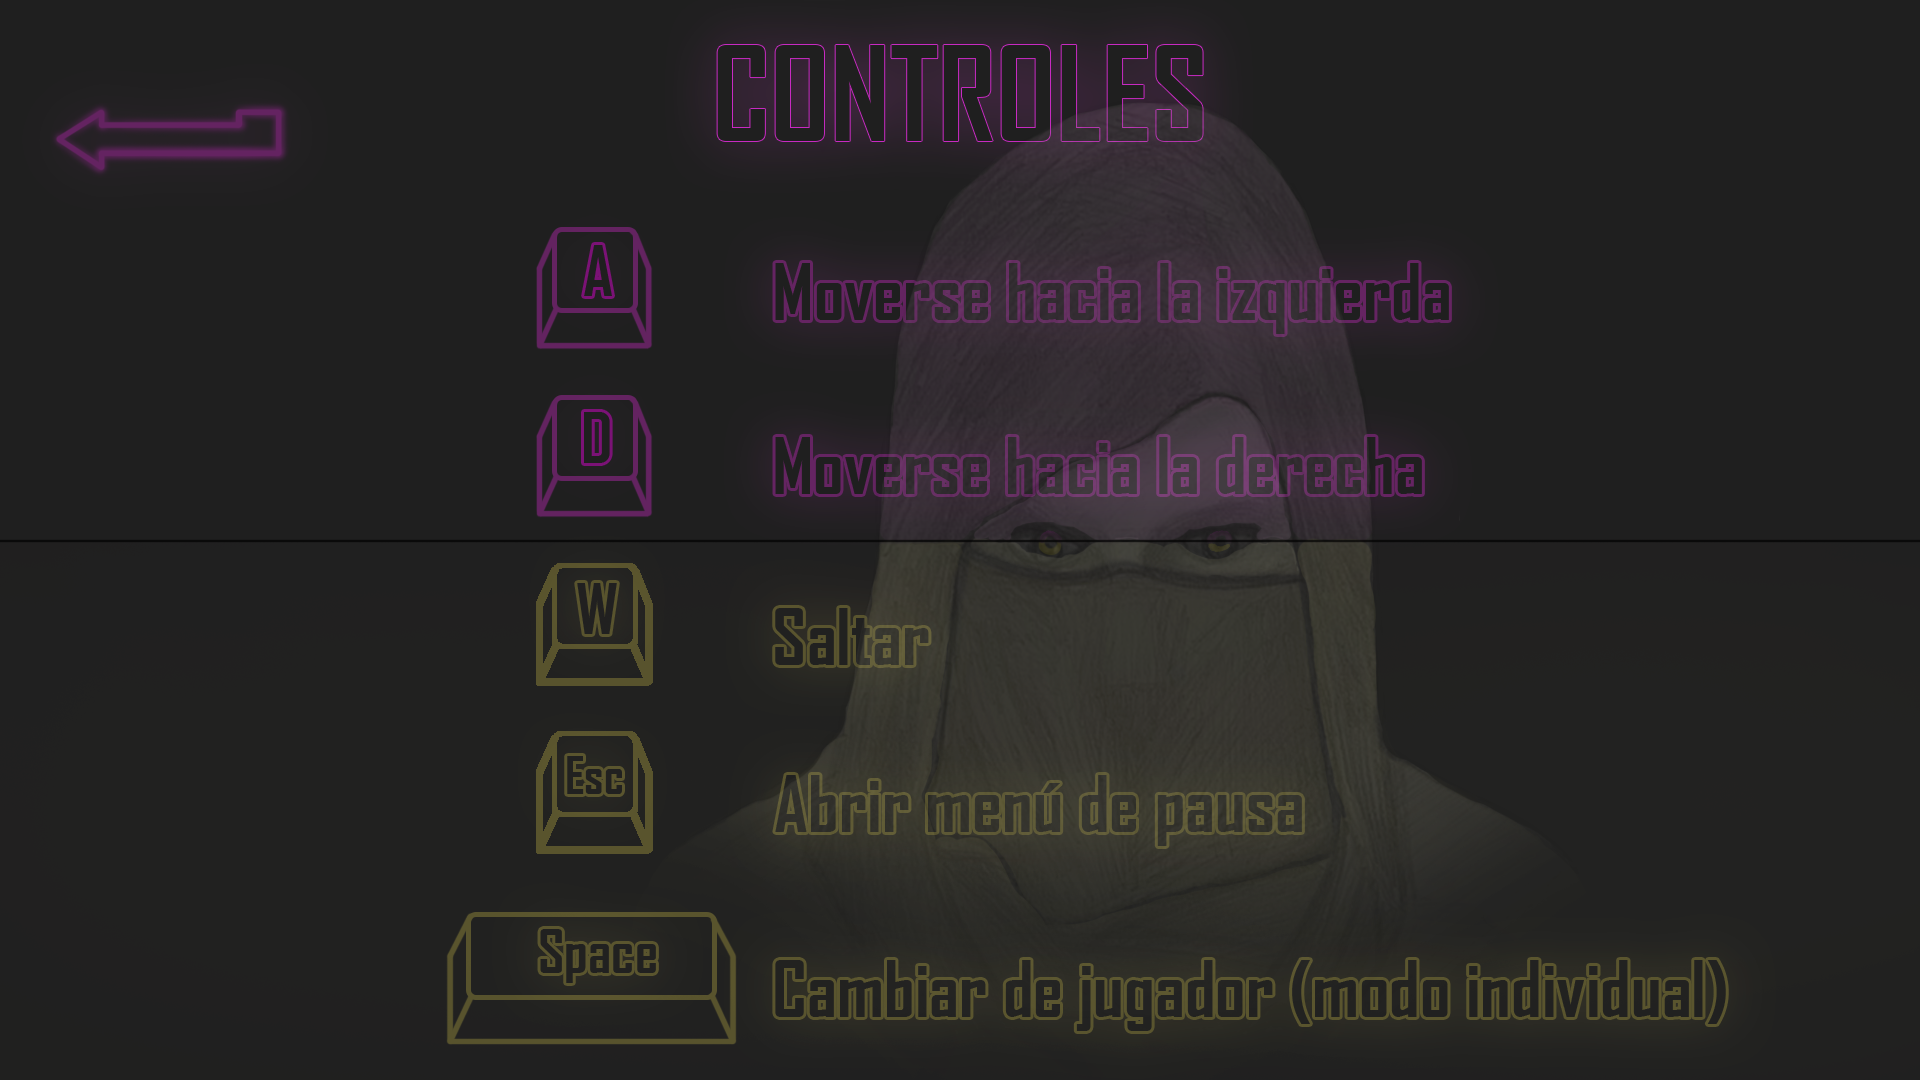
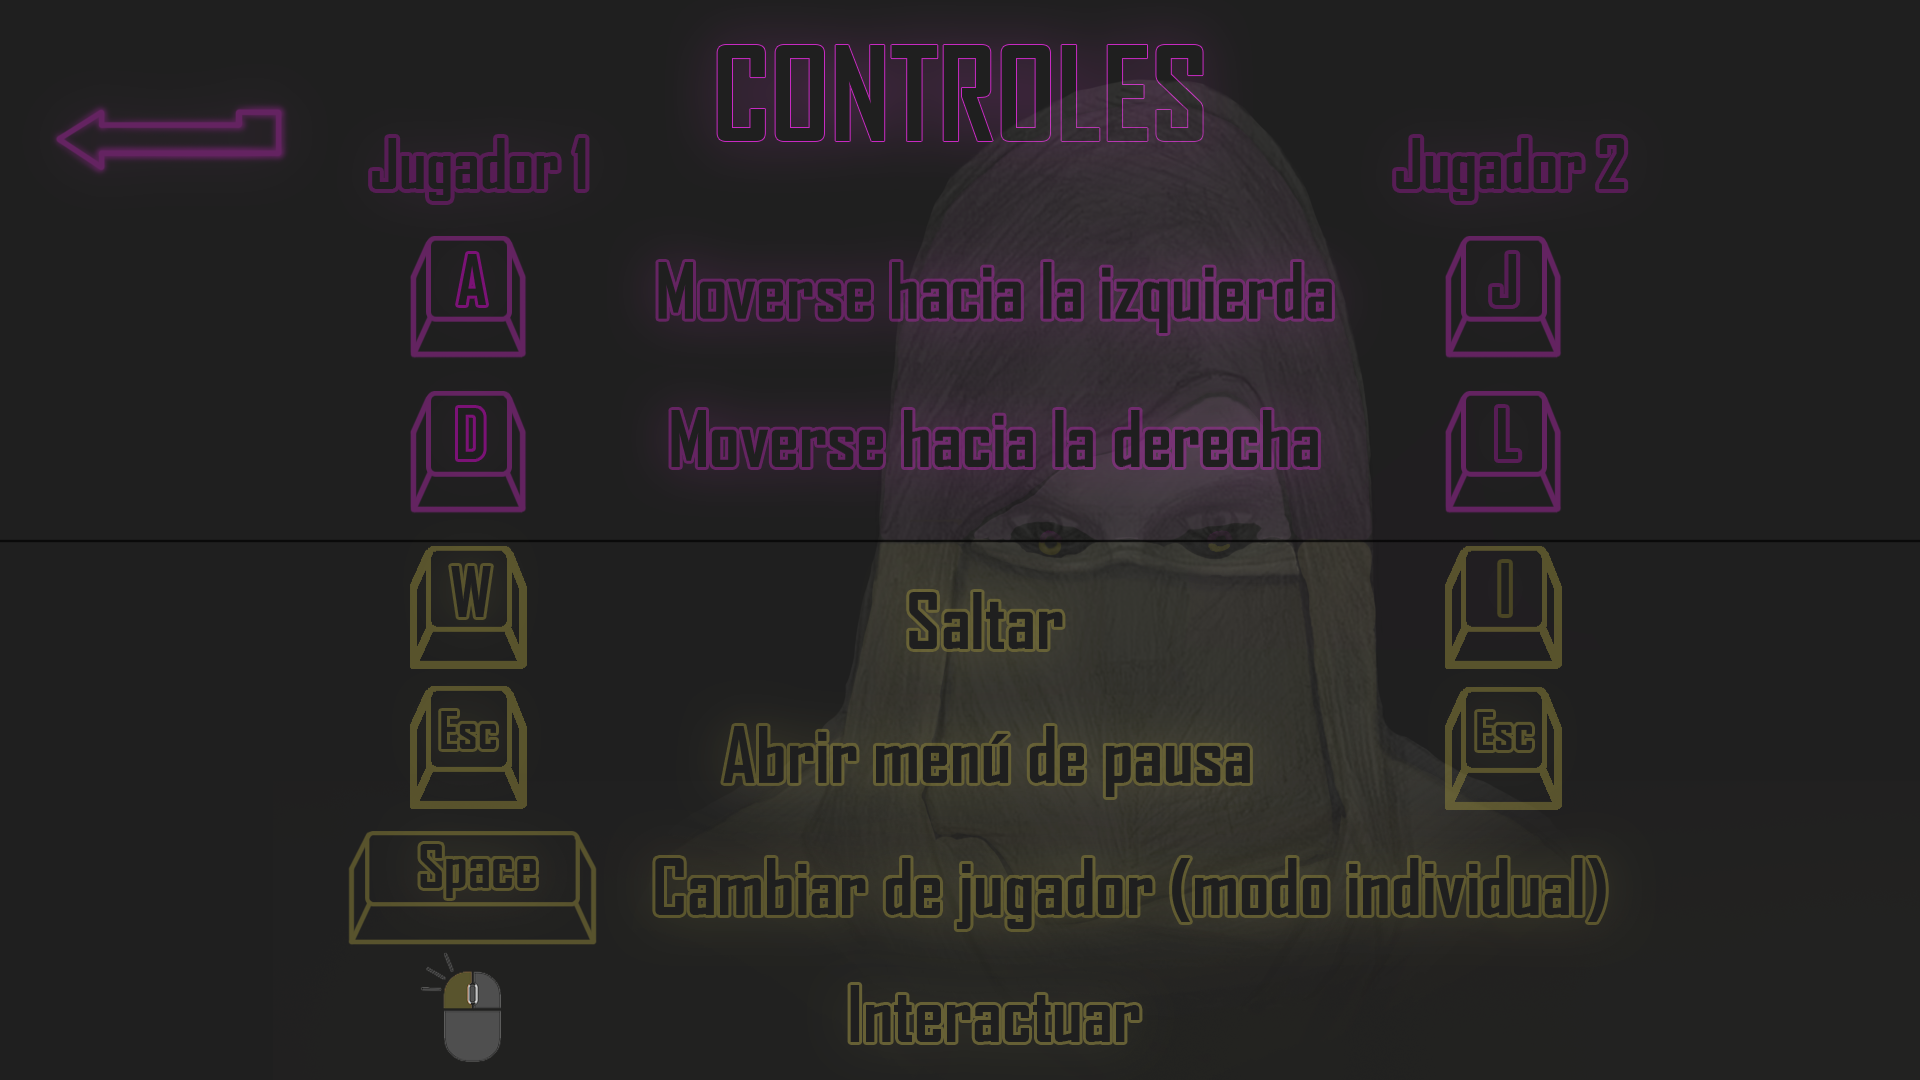
Cambios varios
- Pantalla de controles detecta dispositivo
- Cambio en la precarga de assets

diff --git a/src/scenes/bootScene.js b/src/scenes/bootScene.js
@@ -191,6 +191,35 @@ class bootScene extends Phaser.Scene{
             frameHeight: 68
         });
 
+        this.load.image('menu', 'assets/screens/Menú.png');
+        this.load.image('menuEnglish', 'assets/screens/MenúIngles.png');
+        this.load.image('screen', 'assets/UI/FullScreen.png');
+        this.load.image('settings', 'assets/UI/Settings.png');
+        this.load.image('howToPlay', 'assets/screens/Controles.png');
+        this.load.image('howToPlayEnglish', 'assets/screens/ControlesIngles.png');
+        this.load.image('howToPlayMB', 'assets/screens/ControlesMovil.png');
+        this.load.image('howToPlayMBEnglish', 'assets/screens/ControlesMovilIngles.png');
+        this.load.image('credit', 'assets/screens/Contacto.png');
+        this.load.image('creditEnglish', 'assets/screens/ContactoIngles.png');
+        this.load.image('gameOver', 'assets/screens/GameOver.png');
+        this.load.image('gameOverEnglish', 'assets/screens/GameOverIngles.png');
+        this.load.image('pause', 'assets/screens/Pausa.png');
+        this.load.image('pauseEnglish', 'assets/screens/PausaIngles.png');
+        this.load.image('rankES', 'assets/screens/Puntuaciones.png');
+        this.load.image('rankEN', 'assets/screens/PuntuacionesIngles.png');
+        this.load.image('levelSelect', 'assets/screens/SeleccionNivel.png');
+        this.load.image('screen', 'assets/UI/FullScreen.png');
+        this.load.image('mode', 'assets/screens/SeleccionModo.png');
+        this.load.image('modeEnglish', 'assets/screens/SeleccionModoIngles.png');
+        this.load.image('screen', 'assets/UI/FullScreen.png');
+        this.load.image('language', 'assets/screens/SeleccionIdioma.png');
+        this.load.image('languageEnglish', 'assets/screens/SeleccionIdiomaIngles.png');
+        this.load.image('español', 'assets/UI/España.png');
+        this.load.image('english', 'assets/UI/UK.png');
+
+
+        this.load.bitmapFont('agency', 'assets/font/agency_0.png', 'assets/font/agency.xml');
+
     }
 
     create(){

diff --git a/src/scenes/controls.js b/src/scenes/controls.js
@@ -6,18 +6,23 @@ class controls extends Phaser.Scene{
     init(data){
         this.English = data.english;
         this.am = data.am;
+        this.device = data.device;
     }
 
     preload(){
-        this.load.image('howToPlay', 'assets/screens/Controles.png');
-        this.load.image('howToPlayEnglish', 'assets/screens/ControlesIngles.png');
     }
 
     create(){
         if (this.English){
-            this.add.sprite(960, 540, 'howToPlayEnglish');
+            if(this.device == "desktop")
+                this.add.sprite(960, 540, 'howToPlayEnglish');
+            else
+                this.add.sprite(960, 540, 'howToPlayMBEnglish');
         } else {
-            this.add.sprite(960, 540, 'howToPlay');
+            if(this.device == "desktop")
+                this.add.sprite(960, 540, 'howToPlay');
+            else
+                this.add.sprite(960, 540, 'howToPlayMB');
         }
         var bText = this.add.text(125,125,"Atrás",{font : "48px"}).setInteractive().on("pointerup",()=>{
             this.scene.start("menuScene", {english: this.English, am: this.am});

diff --git a/src/scenes/menuScene.js b/src/scenes/menuScene.js
@@ -14,10 +14,6 @@ class menuScene extends Phaser.Scene{
     }
 
     preload(){
-        this.load.image('menu', 'assets/screens/Menú.png');
-        this.load.image('menuEnglish', 'assets/screens/MenúIngles.png');
-        this.load.image('screen', 'assets/UI/FullScreen.png');
-        this.load.image('settings', 'assets/UI/Settings.png');
     }
 
     create(){
@@ -53,7 +49,7 @@ class menuScene extends Phaser.Scene{
 
         var bControls = this.add.rectangle(292.5,540,450,100,0xaa7f2a).setInteractive().on('pointerup',()=>{
             //this.setFillStyle(0xffffff);
-            this.scene.start("controls", {english: this.English, am: this.am});
+            this.scene.start("controls", {english: this.English, am: this.am, device:this.device});
         });
         bControls.setAlpha(0.1);
 

diff --git a/src/scenes/settings.js b/src/scenes/settings.js
@@ -9,10 +9,6 @@ class settings extends Phaser.Scene{
     }
 
     preload(){
-        this.load.image('language', 'assets/screens/SeleccionIdioma.png');
-        this.load.image('languageEnglish', 'assets/screens/SeleccionIdiomaIngles.png');
-        this.load.image('español', 'assets/UI/España.png');
-        this.load.image('english', 'assets/UI/UK.png');
     }
 
     create(){

diff --git a/src/scenes/rankingScene.js b/src/scenes/rankingScene.js
@@ -9,9 +9,6 @@ class rankingScene extends Phaser.Scene{
     }
 
     preload(){
-        this.load.image('rankES', 'assets/screens/Puntuaciones.png');
-        this.load.image('rankEN', 'assets/screens/PuntuacionesIngles.png');
-        this.load.bitmapFont('agency', 'assets/font/agency_0.png', 'assets/font/agency.xml');
     }
 
     create(){

diff --git a/src/scenes/selectMode.js b/src/scenes/selectMode.js
@@ -12,9 +12,6 @@ class selectMode extends Phaser.Scene{
     }
 
     preload(){
-        this.load.image('mode', 'assets/screens/SeleccionModo.png');
-        this.load.image('modeEnglish', 'assets/screens/SeleccionModoIngles.png');
-        this.load.image('screen', 'assets/UI/FullScreen.png');
     }
 
     create(){

diff --git a/src/scenes/gameOverScene.js b/src/scenes/gameOverScene.js
@@ -11,8 +11,6 @@ class gameOverScene extends Phaser.Scene{
     }
 
     preload(){
-        this.load.image('gameOver', 'assets/screens/GameOver.png');
-        this.load.image('gameOverEnglish', 'assets/screens/GameOverIngles.png');
     }
 
     create(){

diff --git a/src/scenes/selectLevel.js b/src/scenes/selectLevel.js
@@ -11,8 +11,6 @@ class selectLevel extends Phaser.Scene{
     }
 
     preload(){
-        this.load.image('levelSelect', 'assets/screens/SeleccionNivel.png');
-        this.load.image('screen', 'assets/UI/FullScreen.png');
     }
 
     create(){

diff --git a/src/scenes/credits.js b/src/scenes/credits.js
@@ -9,8 +9,6 @@ class credits extends Phaser.Scene{
     }
 
     preload(){
-        this.load.image('credit', 'assets/screens/Contacto.png');
-        this.load.image('creditEnglish', 'assets/screens/ContactoIngles.png');
     }
 
     create(){

diff --git a/src/scenes/pauseScene.js b/src/scenes/pauseScene.js
@@ -11,8 +11,6 @@ class pauseScene extends Phaser.Scene{
     }
 
     preload(){
-        this.load.image('pause', 'assets/screens/Pausa.png');
-        this.load.image('pauseEnglish', 'assets/screens/PausaIngles.png');
     }
 
     create(){
